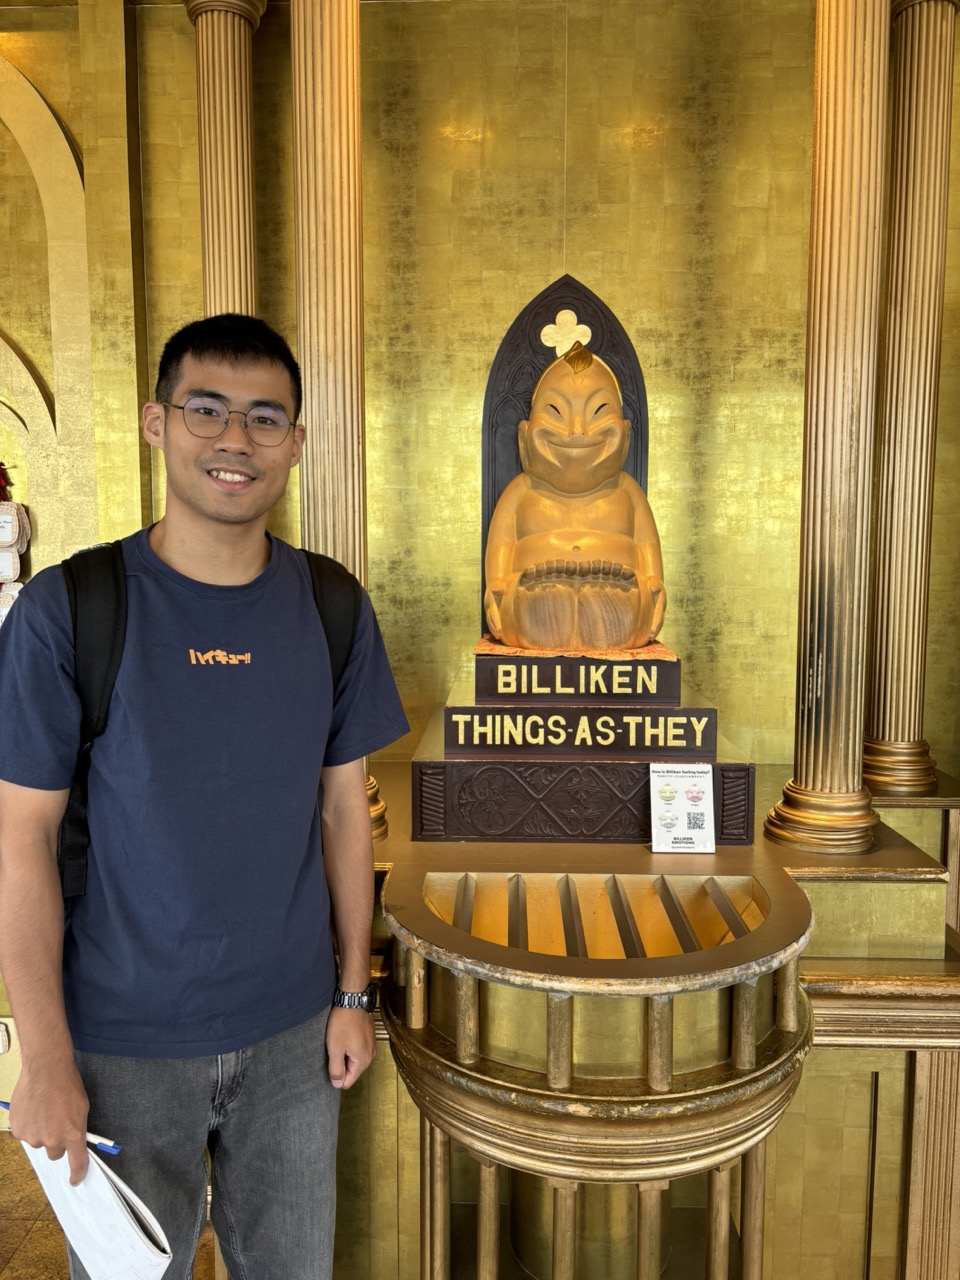
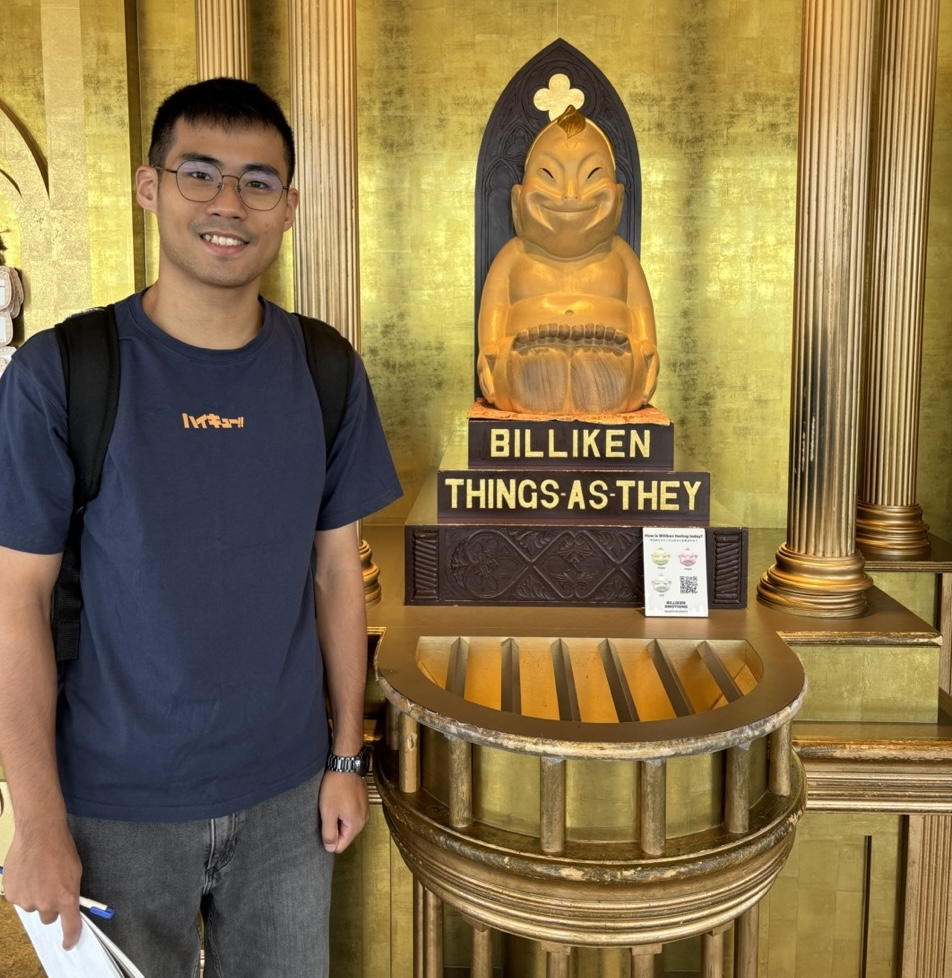
24/12/26 22:14:42 auto push

diff --git a/style.css b/style.css
@@ -41,7 +41,7 @@ header {
     width: 100%;
     text-align: center;
     position: absolute;
-    top: 20px;
+    top: 100px;
 }
 
 h1 {
@@ -50,9 +50,9 @@ h1 {
 
 .photo {
     width: 300px;
-    height: 500px;
+    height: 300px;
     background-color: #ddd;
-    margin: 50px auto;
+    margin: 0px auto;
     overflow: hidden;
 }
 
